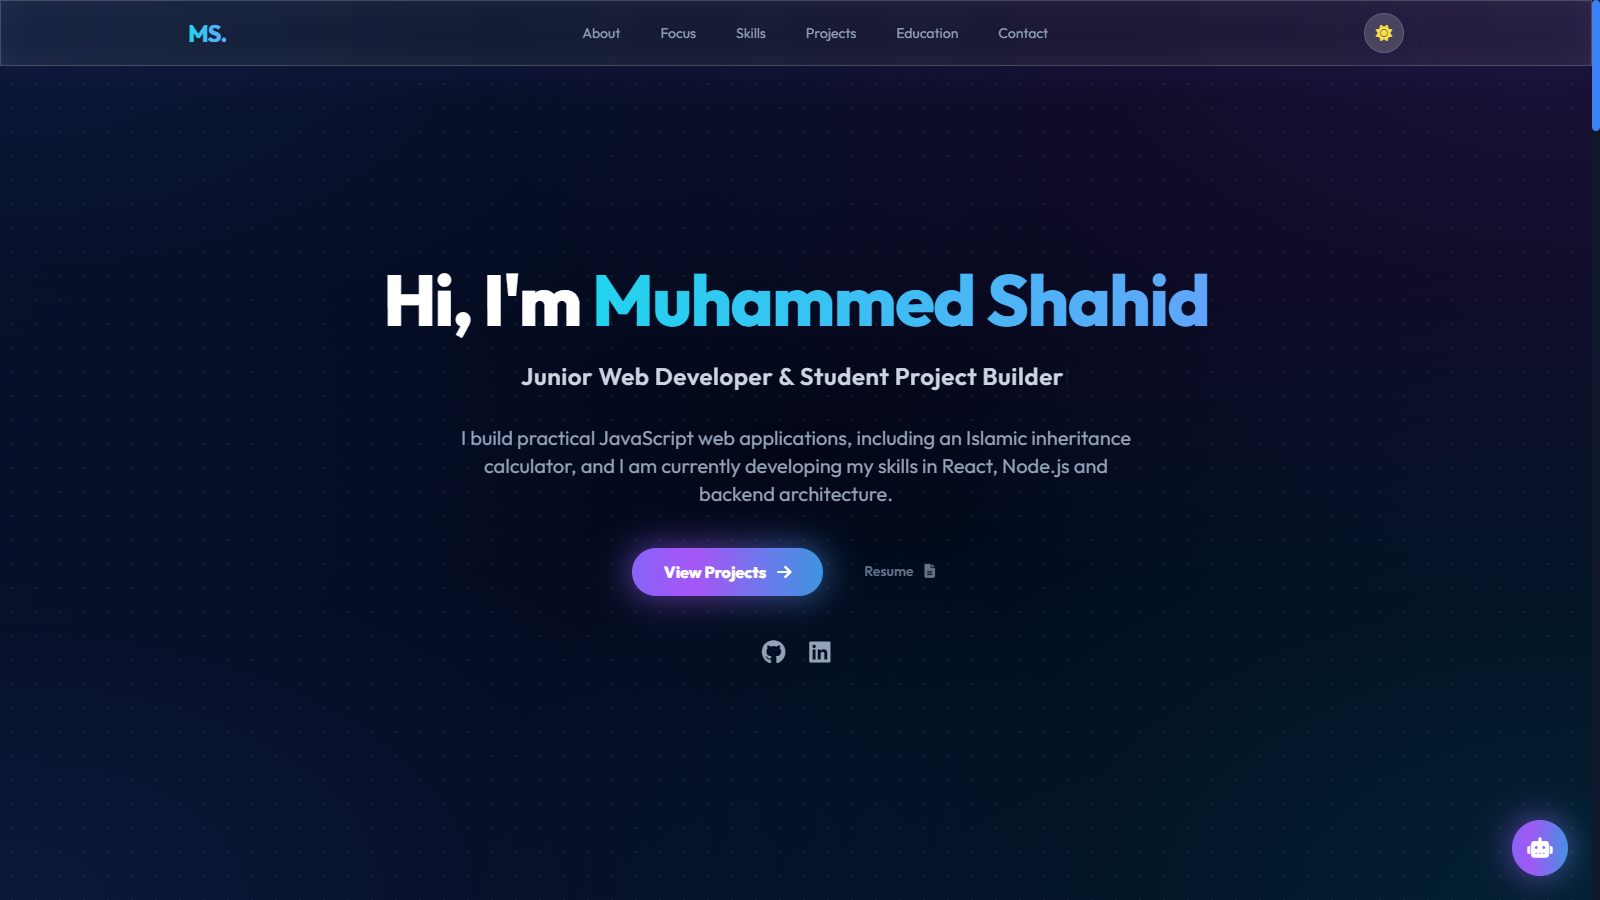
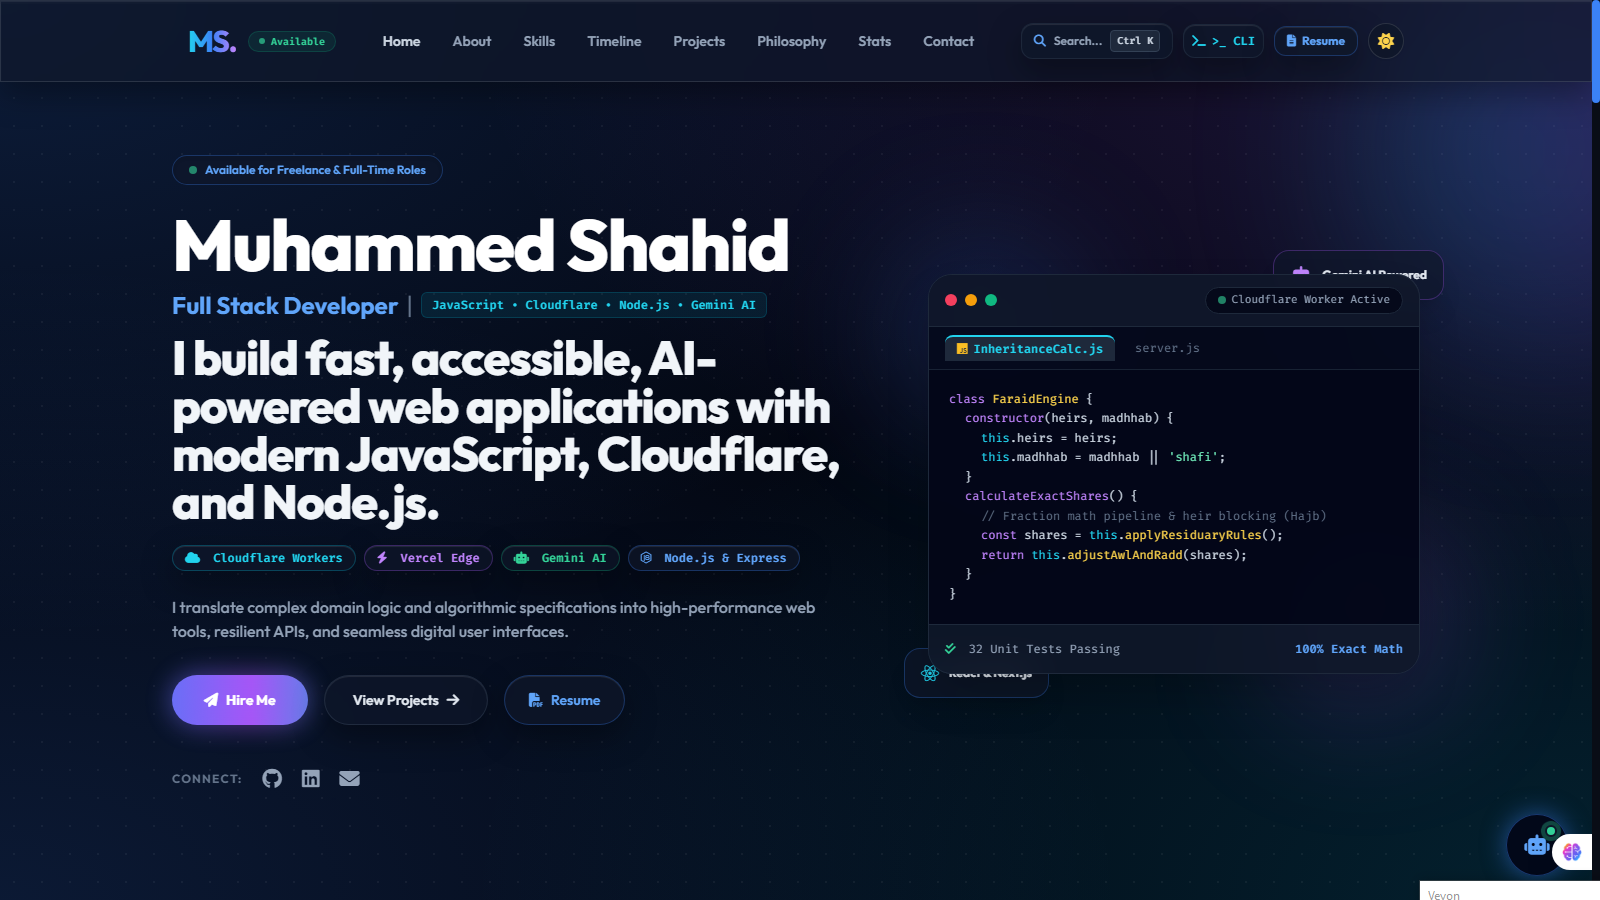
refactor: update portfolio title and metadata
Update the portfolio title and description to better reflect current focus on AI-powered application development and updated deployment context. Update the project image.

diff --git a/frontend/index.html b/frontend/index.html
@@ -4,23 +4,23 @@
 <head>
     <meta charset="UTF-8">
     <meta name="viewport" content="width=device-width, initial-scale=1.0">
-    <title>Muhammed Shahid | Full Stack Web Developer &amp; AI Integration Engineer</title>
+    <title>Muhammed Shahid | Full Stack Developer building AI-powered applications</title>
 
     <meta name="description"
         content="I build fast, accessible, AI-powered web applications with modern JavaScript, Cloudflare Workers, and Node.js. Case studies, architecture diagrams, and live production tools.">
     <meta name="keywords" content="Muhammed Shahid, Portfolio, Full Stack Developer, Web Developer, Cloudflare Workers, Vercel, Gemini AI API, JavaScript, Node.js, Express, Tailwind CSS, Islamic Inheritance Calculator Case Study">
     
     <!-- Open Graph / Twitter Cards -->
-    <meta property="og:title" content="Muhammed Shahid - Full Stack Web Developer &amp; AI Integration Engineer">
+    <meta property="og:title" content="Muhammed Shahid - Full Stack Developer building AI-powered applications">
     <meta property="og:description" content="I build fast, accessible, AI-powered web applications with modern JavaScript, Cloudflare Workers, and Node.js.">
     <meta property="og:type" content="website">
-    <meta property="og:url" content="https://shahidportfolio.mshahid3845.workers.dev/">
+    <meta property="og:url" content="https://personal-shahid-portfolio.vercel.app/">
     <meta property="og:image" content="assets/portfolio.webp">
     <meta name="twitter:card" content="summary_large_image">
-    <meta name="twitter:title" content="Muhammed Shahid - Full Stack Web Developer &amp; AI Engineer">
+    <meta name="twitter:title" content="Muhammed Shahid - Full Stack Developer building AI-powered applications">
     <meta name="twitter:description" content="I build fast, accessible, AI-powered web applications with modern JavaScript, Cloudflare Workers, and Node.js.">
     <meta name="twitter:image" content="assets/portfolio.webp">
-    <link rel="canonical" href="https://shahidportfolio.mshahid3845.workers.dev/">
+    <link rel="canonical" href="https://personal-shahid-portfolio.vercel.app/">
     <link rel="icon" href="assets/favicon.png" type="image/png">
     
     <!-- Structured Data (JSON-LD) -->
@@ -29,8 +29,8 @@
       "@context": "https://schema.org",
       "@type": "Person",
       "name": "Muhammed Shahid",
-      "jobTitle": "Full Stack Web Developer",
-      "url": "https://shahidportfolio.mshahid3845.workers.dev/",
+      "jobTitle": "Full Stack Developer",
+      "url": "https://personal-shahid-portfolio.vercel.app/",
       "sameAs": [
         "https://github.com/shahi845",
         "https://www.linkedin.com/in/muhammed-shahid-388434392/",
